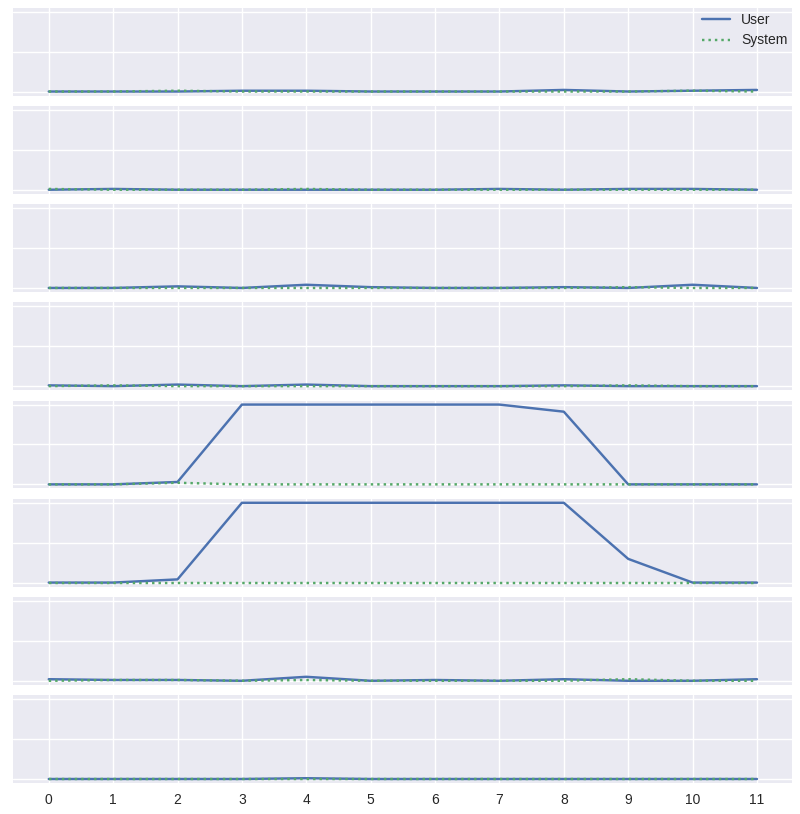
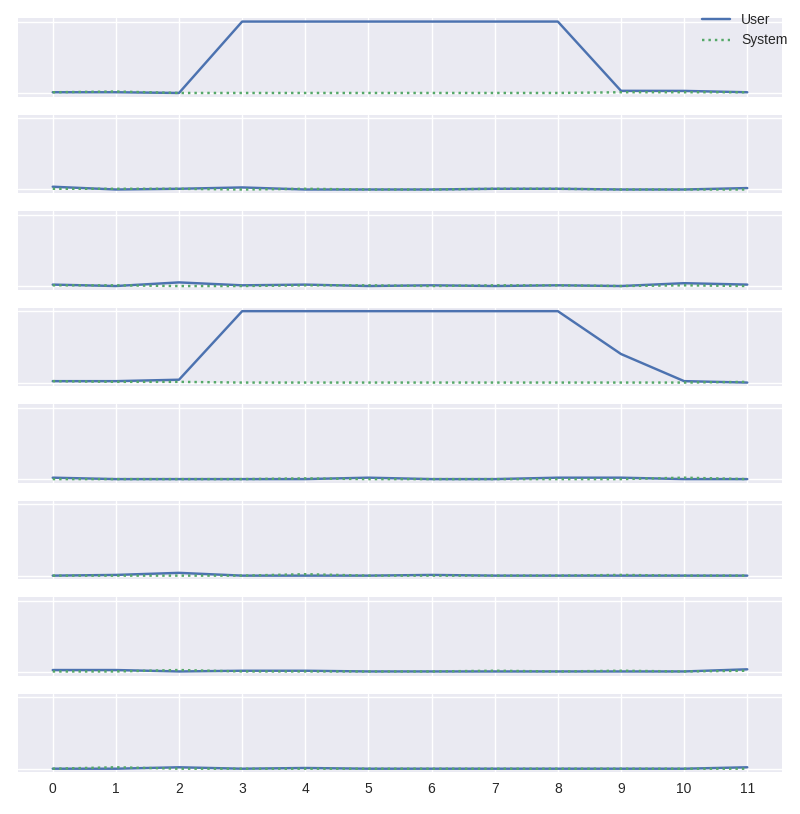
Adding file save option to watch_cpu/profile_cpu.

diff --git a/watch_cpu.py b/watch_cpu.py
@@ -3,9 +3,6 @@ import subprocess
 import time
 
 
-DEFAULT_INTERVAL = 1.0
-
-
 def get_args():
     parser = argparse.ArgumentParser(
         description='Profile CPU while doing a computation.')
@@ -14,34 +11,47 @@ def get_args():
         type=int, required=True,
         help='Total number of intervals to profile for.')
     parser.add_argument(
-        '--interval', type=float, default=DEFAULT_INTERVAL,
+        '--interval', type=float,
         help='The sample interval during profiling.')
     script_help = (
         'The Python script to execute for profiling. All unused '
         'arguments will be passed to the script.')
     parser.add_argument(
         '--script', required=True, help=script_help)
+    filename_help = (
+        'The filename to save the plot into. If not provided, the plot '
+        'will just be displayed interactively.')
+    parser.add_argument('--filename', help=filename_help)
 
     return parser.parse_known_args()
 
 
-def main():
-    args, unknown = get_args()
-
-    # https://stackoverflow.com/a/11316397/1068170
-    # https://stackoverflow.com/a/41433401/1068170
-    cmd1 = (
+def start_profiler(args):
+    cmd = (
         'python',
         'profile_cpu.py',
         '--total-intervals', str(args.total_intervals),
-        '--interval', str(args.interval),
     )
-    proc1 = subprocess.Popen(cmd1)
+    if args.interval is not None:
+        cmd += ('--interval', str(args.interval))
+    if args.filename is not None:
+        cmd += ('--filename', args.filename)
+    return subprocess.Popen(cmd)
 
-    # Do some profiling before starting the computation.
+
+def start_script(args, unknown):
+    cmd = ('python', args.script) + tuple(unknown)
+    return subprocess.Popen(cmd)
+
+
+def main():
+    args, unknown = get_args()
+    # https://stackoverflow.com/a/11316397/1068170
+    # https://stackoverflow.com/a/41433401/1068170
+    proc1 = start_profiler(args)
+    # Allow profiler some "dead time" before starting the computation.
     time.sleep(3)
-    cmd2 = ('python', args.script) + tuple(unknown)
-    proc2 = subprocess.Popen(cmd2)
+    proc2 = start_script(args, unknown)
 
     # Keep this process alive until both subprocesses are done,
     # but don't block on either one.

diff --git a/profile_cpu.py b/profile_cpu.py
@@ -55,7 +55,7 @@ def plot_info(all_axes, cpu_index, cpu_time_series, num_cpus, interval):
     return usr_line, sys_line
 
 
-def plot_all_info(cpu_time_series, interval):
+def plot_all_info(cpu_time_series, interval, filename):
     # NOTE: Importing matplotlib / numpy / seaborn takes a long time, so
     #       it is done here intentionally (to avoid messing with the
     #       profiling information).
@@ -73,7 +73,12 @@ def plot_all_info(cpu_time_series, interval):
             all_axes, cpu_index, cpu_time_series, num_cpus, interval)
 
     fig.legend((usr_line, sys_line), ('User', 'System'), loc='upper right')
-    plt.show()
+    fig.set_size_inches(8.0, 8.14)
+    fig.tight_layout()
+    if filename is None:
+        plt.show()
+    else:
+        plt.savefig(filename)
 
 
 def get_args():
@@ -86,6 +91,10 @@ def get_args():
     parser.add_argument(
         '--interval', type=float, default=DEFAULT_INTERVAL,
         help='The sample interval during profiling.')
+    filename_help = (
+        'The filename to save the plot into. If not provided, the plot '
+        'will just be displayed interactively.')
+    parser.add_argument('--filename', help=filename_help)
 
     return parser.parse_args()
 
@@ -94,7 +103,7 @@ def main():
     args = get_args()
     all_info = profile(args.total_intervals, interval=args.interval)
     cpu_time_series = process_info(all_info)
-    plot_all_info(cpu_time_series, args.interval)
+    plot_all_info(cpu_time_series, args.interval, args.filename)
 
 
 if __name__ == '__main__':

diff --git a/README.md b/README.md
@@ -14,8 +14,10 @@ This was done on a 4-core machine with 8 virtual cores.
 ```
 $ python watch_cpu.py \
 >   --total-intervals 12 \
+>   --filename profile-multiproc-2.png \
 >   --script use_multiprocessing.py \
 >   --num-procs 2
+[36028796884746240, 36028796884746240]
 ```
 
 ![Using multiprocessing with 2 cores][multiproc2]
